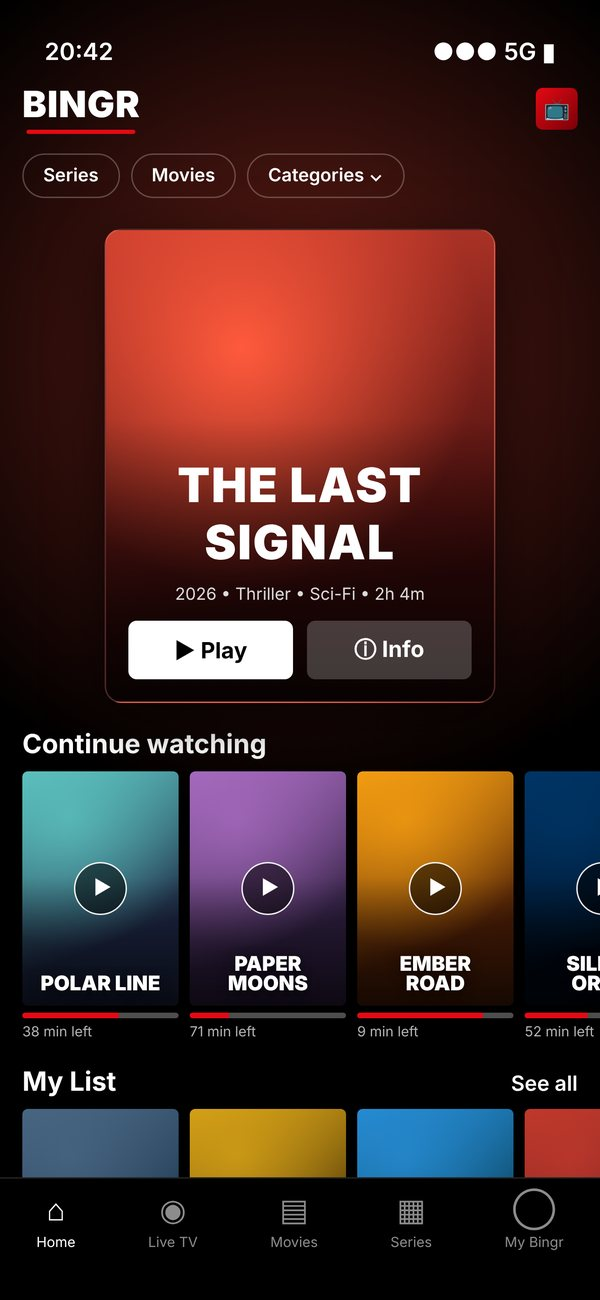
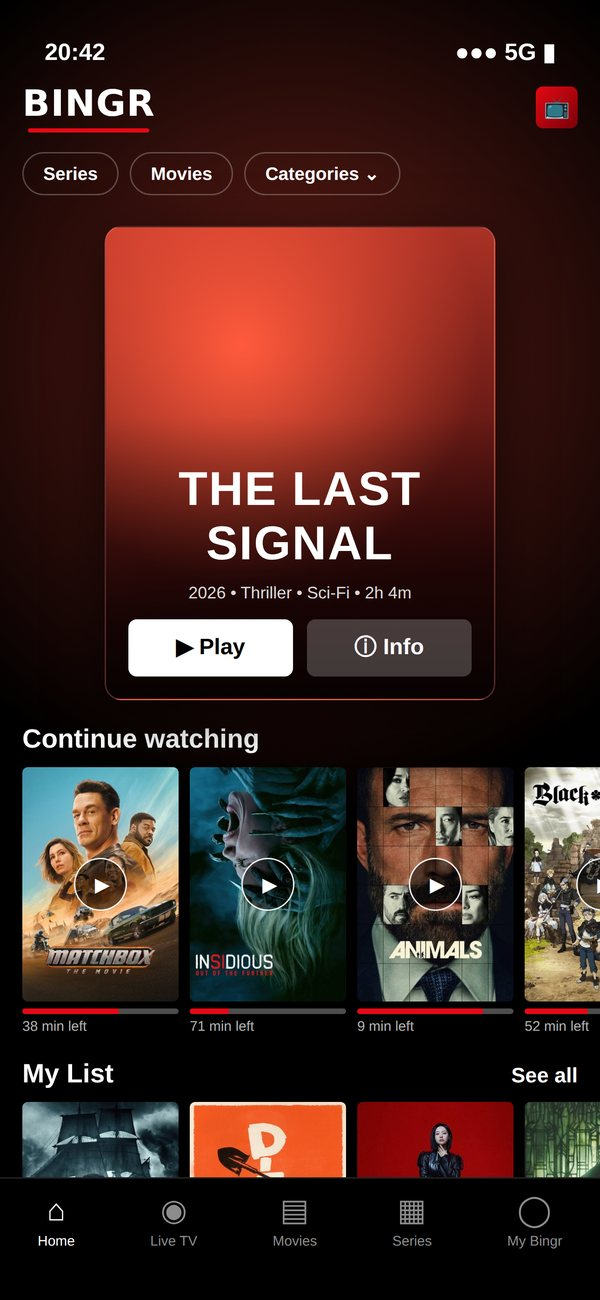
Screenshots met echte covers, build 37
Claude-Session: https://claude.ai/code/session_01QoqqLVTvT2ekCDQmWshsy8

diff --git a/support.html b/support.html
@@ -49,6 +49,6 @@ footer div{max-width:820px;margin:0 auto;padding:26px 24px}
 <p>Log op al je apparaten in met dezelfde Apple ID en zet iCloud aan. Je server, profielen, Mijn lijst en voortgang verschijnen dan vanzelf. Op Apple TV met meerdere gebruikers heeft iedere gebruiker zijn eigen Bingr.</p>
 <div class="box"><p><b>Let op:</b> Bingr is een speler en levert zelf geen zenders, films of series. Voor vragen over je abonnement of zenderaanbod neem je contact op met je eigen aanbieder.</p></div>
 </main>
-<footer><div>© 2026 Bingr · Versie <span data-build>1.0.0 (build 34)</span> · <a href="privacy.html">Privacy</a> · <a href="support.html">Support</a></div></footer>
+<footer><div>© 2026 Bingr · Versie <span data-build>1.0.0 (build 37)</span> · <a href="privacy.html">Privacy</a> · <a href="support.html">Support</a></div></footer>
 </body>
 </html>

diff --git a/index.html b/index.html
@@ -445,7 +445,7 @@ footer .copy{margin-top:16px;font-size:13px}
       </div>
     </div>
     <p class="disc" data-i18n="foot.disc">Bingr is een mediaspeler en levert, verkoopt of host geen zenders, films of series. Je bent zelf verantwoordelijk voor de content die je afspeelt en het recht om die te bekijken. Apple, iPhone, iPad, Apple TV, Mac en AirPlay zijn handelsmerken van Apple Inc.</p>
-    <p class="copy">© <span id="yr">2026</span> Bingr · <span data-i18n="foot.version">Versie</span> <span data-build>1.0.0 (build 34)</span></p>
+    <p class="copy">© <span id="yr">2026</span> Bingr · <span data-i18n="foot.version">Versie</span> <span data-build>1.0.0 (build 37)</span></p>
   </div>
 </footer>
 

diff --git a/privacy.html b/privacy.html
@@ -56,6 +56,6 @@ footer div{max-width:820px;margin:0 auto;padding:26px 24px}
 <h2>Contact</h2>
 <p>Vragen over privacy? Mail naar <a href="mailto:privacy@bingr.online">privacy@bingr.online</a>.</p>
 </main>
-<footer><div>© 2026 Bingr · Versie <span data-build>1.0.0 (build 34)</span> · <a href="privacy.html">Privacy</a> · <a href="support.html">Support</a></div></footer>
+<footer><div>© 2026 Bingr · Versie <span data-build>1.0.0 (build 37)</span> · <a href="privacy.html">Privacy</a> · <a href="support.html">Support</a></div></footer>
 </body>
 </html>
